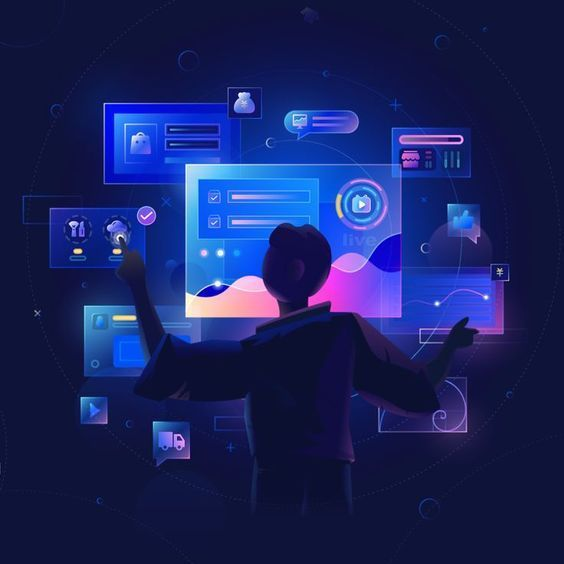
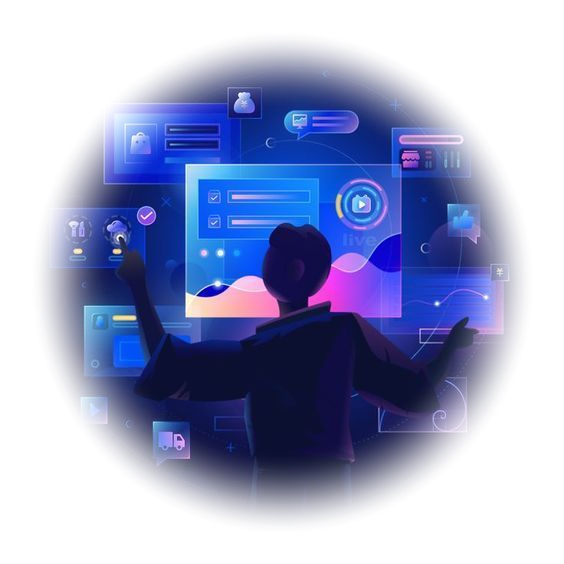
refactor: revert to clean centered executive dashboard layout and ensure user popover menu is 100% opaque

diff --git a/frontend/src/pages/Dashboard.jsx b/frontend/src/pages/Dashboard.jsx
@@ -1,5 +1,5 @@
 import { useNavigate } from 'react-router-dom'
-import { FileText, Lock, ArrowRight, Scale, Calculator, User, ShieldCheck, Sparkles, Zap } from 'lucide-react'
+import { FileText, Lock, ArrowRight, Scale, Calculator, User } from 'lucide-react'
 import AppShell from '../components/AppShell'
 import { useAuth } from '../auth'
 import ClauseGuardLogo from '../components/ClauseGuardLogo'
@@ -10,113 +10,53 @@ export default function Dashboard() {
 
   return (
     <AppShell>
-      <div className="max-w-6xl mx-auto px-6 py-10">
-        
-        {/* Executive Split Hero Section */}
-        <div className="grid lg:grid-cols-12 gap-8 lg:gap-12 items-center mb-16">
-          
-          {/* Left Column: Headline, Actions & Value Prop */}
-          <div className="lg:col-span-7 text-left space-y-6">
-            
-            {/* Pill Badge */}
-            <div className="inline-flex items-center gap-2 px-3 py-1.5 rounded-full bg-purple-500/10 border border-purple-500/20 text-purple-300 text-xs font-semibold">
-              <Sparkles size={13} className="text-yellow-300 animate-pulse" />
-              <span>Next-Gen Legal Intelligence & Privacy</span>
-            </div>
-
-            {/* Headline */}
-            <h1 className="text-3xl sm:text-4xl lg:text-5xl font-black text-white tracking-tight leading-[1.15]">
-              Analyze Contracts with <br />
-              <span className="text-gradient-purple">Full Confidence</span>
-            </h1>
-
-            {/* Description */}
-            <p className="text-slate-300 text-sm sm:text-base leading-relaxed max-w-xl">
-              Welcome, <strong className="text-white">{user?.name?.split(' ')[0] || 'User'}</strong>. Translate dense legalese into plain language, stress-test financial commitments against your income, and protect your private documents with zero-knowledge encryption.
-            </p>
-
-            {/* Action Buttons */}
-            <div className="flex flex-wrap items-center gap-3 pt-2">
-              <button 
-                onClick={() => navigate('/analyze')} 
-                className="btn-primary !px-6 !py-3 text-sm flex items-center gap-2 shadow-lg shadow-purple-500/25 hover:shadow-purple-500/40 hover:scale-[1.02] transition-all"
-              >
-                <FileText size={16} />
-                <span>Audit Document</span>
-                <ArrowRight size={14} />
-              </button>
-              <button 
-                onClick={() => navigate('/calculator')} 
-                className="btn-secondary !px-5 !py-3 text-sm flex items-center gap-2 hover:border-purple-500/40 transition-all"
-              >
-                <Calculator size={15} />
-                <span>Stress-Test Math</span>
-              </button>
-              <button 
-                onClick={() => navigate('/vault')} 
-                className="btn-secondary !px-5 !py-3 text-sm flex items-center gap-2 hover:border-purple-500/40 transition-all"
-              >
-                <Lock size={15} />
-                <span>Private Vault</span>
-              </button>
-            </div>
-
-            {/* Micro Trust Indicators */}
-            <div className="flex flex-wrap items-center gap-6 pt-4 border-t border-white/[0.08] text-xs text-slate-400 font-medium">
-              <div className="flex items-center gap-1.5 text-emerald-400">
-                <ShieldCheck size={14} />
-                <span>Zero-Knowledge PII Redaction</span>
-              </div>
-              <div className="flex items-center gap-1.5 text-indigo-400">
-                <Zap size={14} />
-                <span>Real-Time Risk Scoring</span>
-              </div>
-            </div>
-
+      <div className="max-w-5xl mx-auto px-6 py-12">
+        {/* Hero Section */}
+        <div className="text-center max-w-2xl mx-auto mb-16">
+          {/* Existential Logo Emblem */}
+          <div className="relative inline-block mb-6 group cursor-pointer" onClick={() => navigate('/analyze')}>
+            {/* Atmospheric Background Aura */}
+            <div className="absolute -inset-6 rounded-full bg-gradient-to-r from-purple-600/35 via-indigo-500/25 to-pink-500/30 blur-2xl opacity-75 group-hover:opacity-100 transition-opacity duration-500 pointer-events-none" />
+            <ClauseGuardLogo 
+              size={110} 
+              className="relative z-10 mx-auto group-hover:scale-105 transition-transform duration-300 drop-shadow-[0_0_35px_rgba(168,85,247,0.5)]" 
+            />
           </div>
 
-          {/* Right Column: Seamlessly Blended Holographic Illustration */}
-          <div className="lg:col-span-5 relative flex items-center justify-center">
-            
-            {/* Ambient Background Radial Glow behind the artwork */}
-            <div className="absolute -inset-4 rounded-3xl bg-gradient-to-tr from-purple-600/30 via-indigo-600/20 to-pink-600/20 blur-3xl opacity-80 pointer-events-none" />
+          <h1 className="text-3xl sm:text-4xl lg:text-5xl font-black text-white tracking-tight mb-4 leading-tight">
+            Analyze Contracts with <span className="text-gradient-purple">Full Confidence</span>
+          </h1>
 
-            {/* Main Image Container with Soft Glass Gradient Border and Vignette */}
-            <div className="relative rounded-3xl overflow-hidden border border-white/15 bg-[#090d24]/80 shadow-2xl p-2 group hover:border-purple-500/40 transition-all duration-500">
-              
-              <div className="relative rounded-2xl overflow-hidden">
-                <img 
-                  src="/dashboard_hero.png" 
-                  alt="ClauseGuard Intelligence Hub" 
-                  className="w-full h-auto object-cover rounded-2xl transform group-hover:scale-105 transition-transform duration-700 ease-out"
-                />
-                
-                {/* Soft Vignette Overlay to blend the artwork edges smoothly */}
-                <div className="absolute inset-0 bg-gradient-to-t from-[#080b1e]/90 via-transparent to-transparent pointer-events-none" />
-                <div className="absolute inset-0 bg-gradient-to-r from-[#080b1e]/40 via-transparent to-[#080b1e]/40 pointer-events-none" />
-              </div>
+          <p className="text-slate-400 text-sm sm:text-base leading-relaxed mb-8">
+            Welcome, {user?.name?.split(' ')[0] || 'User'}. Upload any agreement to translate complex clauses, stress-test financial commitments against your income, or manage your secure vault.
+          </p>
 
-              {/* Floating Glass Floating Badge on Image */}
-              <div className="absolute bottom-5 left-5 right-5 p-3 rounded-xl bg-[#0b0f2a]/90 backdrop-blur-xl border border-white/15 flex items-center justify-between shadow-xl">
-                <div className="flex items-center gap-2.5">
-                  <div className="w-8 h-8 rounded-lg bg-purple-500/20 border border-purple-500/30 flex items-center justify-center text-purple-300">
-                    <Sparkles size={15} />
-                  </div>
-                  <div>
-                    <p className="text-xs font-bold text-white leading-tight">Live Contract Intelligence</p>
-                    <p className="text-[10px] text-slate-400">Multi-Angle Risk & Math Audit</p>
-                  </div>
-                </div>
-                <span className="w-2 h-2 rounded-full bg-emerald-400 animate-pulse" />
-              </div>
-
-            </div>
-
+          <div className="flex flex-wrap items-center justify-center gap-3">
+            <button 
+              onClick={() => navigate('/analyze')} 
+              className="btn-primary !px-6 !py-3 text-sm flex items-center gap-2 shadow-lg shadow-purple-500/25 hover:shadow-purple-500/40 hover:scale-[1.02] transition-all"
+            >
+              <FileText size={16} />
+              <span>Audit Document</span>
+            </button>
+            <button 
+              onClick={() => navigate('/calculator')} 
+              className="btn-secondary !px-5 !py-3 text-sm flex items-center gap-2 hover:border-purple-500/40 transition-all"
+            >
+              <Calculator size={15} />
+              <span>Stress-Test Math</span>
+            </button>
+            <button 
+              onClick={() => navigate('/profile')} 
+              className="btn-secondary !px-5 !py-3 text-sm flex items-center gap-2 hover:border-purple-500/40 transition-all"
+            >
+              <User size={15} />
+              <span>Profile & Security</span>
+            </button>
           </div>
-
         </div>
 
-        {/* Core Feature Cards Header */}
+        {/* 3 Core Highlight Feature Cards */}
         <div className="text-center mb-8">
           <h2 className="text-2xl font-bold text-white mb-1 tracking-tight">
             Secure & Reliable Tools
@@ -126,9 +66,7 @@ export default function Dashboard() {
           </p>
         </div>
 
-        {/* 3 Core Highlight Feature Cards */}
         <div className="grid md:grid-cols-3 gap-6 mb-6">
-          
           {/* Card 1: Risk Breakdown */}
           <div 
             onClick={() => navigate('/analyze')}
@@ -185,7 +123,6 @@ export default function Dashboard() {
               Open Vault <ArrowRight size={13} className="group-hover:translate-x-1 transition-transform" />
             </span>
           </div>
-
         </div>
 
       </div>

diff --git a/frontend/src/components/AppShell.jsx b/frontend/src/components/AppShell.jsx
@@ -104,11 +104,12 @@ export default function AppShell({ children }) {
 
               {/* Dropdown Popover */}
               {menuOpen && (
-                <div className="absolute right-0 mt-2 w-56 rounded-2xl bg-[#0d1025]/95 backdrop-blur-2xl border border-white/10 shadow-2xl py-2 z-50 animate-in fade-in slide-in-from-top-2 duration-150">
+                <div className="absolute right-0 mt-2 w-56 rounded-2xl bg-[#0c0f2b] border border-white/15 shadow-2xl shadow-black/80 py-2 z-[100] animate-in fade-in slide-in-from-top-2 duration-150">
                   <div className="px-4 py-2.5 border-b border-white/[0.08]">
                     <p className="text-xs font-bold text-white truncate">{user.name}</p>
                     <p className="text-[11px] text-slate-400 truncate">{user.email || user.role || 'Member'}</p>
                   </div>
+
 
                   <div className="py-1">
                     <Link
